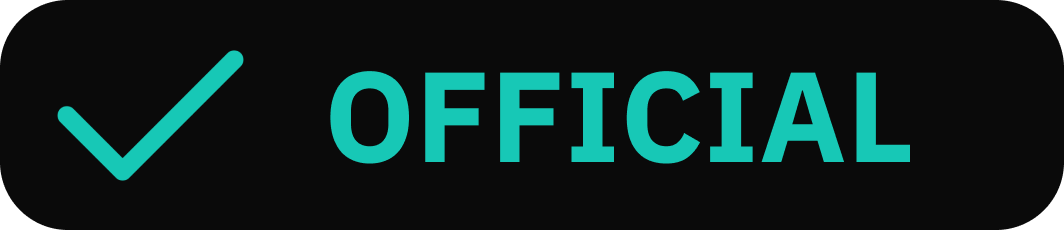
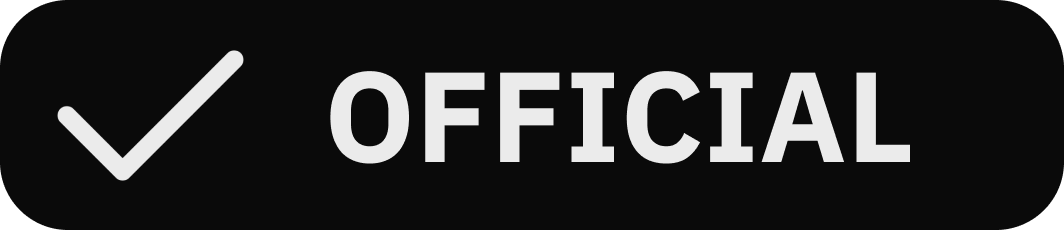
update 20.01.2025

Changed region(s): [[0.3102, 0.3043, 0.8684, 0.7304], [0.031, 0.213, 0.2481, 0.7913]]

diff --git a/index.html b/index.html
@@ -3,10 +3,10 @@
 <head>
     <meta charset="UTF-8">
     <meta name="viewport" content="width=device-width, initial-scale=1.0">
-    <title>Greeny | Card-Page</title>
+    <title>GreenySoka</title>
     <link rel="stylesheet" href="style.css">
     <link rel="preconnect" href="https://fonts.googleapis.com">
-    <link rel="icon" type="x-icon" href="images/gl-logo-round.png">
+    <link rel="icon" type="x-icon" href="images/greenysokalogo.png">
 <link rel="preconnect" href="https://fonts.gstatic.com" crossorigin>
 <link href="https://fonts.googleapis.com/css2?family=Nobile:ital,wght@0,100;0,500;0,700;1,400;1,500;1,700&display=swap" rel="stylesheet">
 </head>
@@ -24,7 +24,7 @@
                 </div>
                 <div id="hd-2">
                     <div id="hd-nametag">
-                        <h1 id="greeny">Greeny</h1><img src="images/fulcrum sign.png" alt="fulcrum" id="fulcrum"> <span id="usertag">@greenysoka</span>
+                        <h1 id="greeny">Greeny</h1><img src="images/greenysoka-white.png" alt="whitesoka" id="whitesoka"> <span id="usertag">@greenysoka</span>
                     </div>
                     <div id="hd-infos">
                         <span class="p-info">Developer / Designer / Gamer</span><br>
@@ -39,8 +39,7 @@
                 <a href="https://github.com/greenysoka" target="_blank"><img src="images/iconmonstr-github-1 1.png" alt="github" class="soc-icon"></a>
                 <a href="https://www.youtube.com/channel/UCnhSu2RBXV_MN-dAOtlmgzw" target="_blank"><img src="images/iconmonstr-youtube-6 1.png" alt="youtube" class="soc-icon"></a>
                 <a href="https://steamcommunity.com/id/greenysoka/" target="_blank"><img src="images/steam.png" alt="steam" class="soc-icon"></a>
-                <a href= "mailto: th3greencraft@gmail.com" target="_blank"><img src="images/iconmonstr-email-1 1.png" alt="email" class="soc-icon"></a>
-
+                <a href= "mailto: greenysoka@gmail.com" target="_blank"><img src="images/iconmonstr-email-1 1.png" alt="email" class="soc-icon"></a>
             </div>
 
             <div id="content">
@@ -52,70 +51,86 @@
                 </div>
             <div id="div-projects">
     
-                <span>Here are all my planned, previous and current projects listed. Take your time, have a look!</span>
+                <span>Welcome to my little card page! Here you can find everything about me and my projects. Have fun! :)</span><br>
+                <span>And shhhh... a new website is coming soon! ^^</span>
                 <br><br>
                 <h2>Running Projects:</h2><br>
 
                 <div class="mp-contentitem">
-                    <h3><img src="projects/gl-logo-round.png" alt="gyxcreative" class="projectimg">GYX Creative <img src="images/officalcheck.png" alt="official" class="official"></h3>
-                    <span>GYX Creative is the new offical home for my bots, clients and partners! So for News, Support, Orders, Changelog and more make sure you <a href="https://discord.com/invite/58xWNKEZs8" target="_blank">join here</a>!</span>
-                    <span>I look forward to welcoming you to GYX Creative soon!</span><br><br>
+                    <h3><img src="projects/sokabots.png" alt="sokabots" class="projectimg">SokaBots <img src="images/officalcheck.png" alt="official" class="official"></h3>
+                    <span>You're looking for your own customized Discord Bot? We can offer that to you! And... IT'S FREE!<br><br>Yes, you heard right. A custom discord bot with ticketsystem, commuity features and custom functions is completely free.</span><br>
+                    <span><br>Join our server and open a ticket to start your experience!</span><br><br>
+                    <a href="https://discord.gg/6y7mB96YUA" target="_blank"><button class="joinbutton">Join SokaBots here</button></a>
                 </div>
 
 
                 <div class="mp-contentitem">
-                    <h3><img src="projects/crimebotv4.png" alt="crimebot" class="projectimg">CRIMEBOT <img src="images/partnercheck.png" alt="partner" class="partner"></h3>
-                    <span>A self-made discord bot for the german <a href="https://discord.gg/y3KKCGAqhm" target="_blank">Crime Master Community Discord Server</a>!</span>
-                    <span>It manages the full discord server and supports the team for every task! It has a fully customized ticket system and a lot of commands!</span><br><br>
+                    <h3><img src="projects/crimebotv4.png" alt="crimebot" class="projectimg">Crimebot<img src="images/partnercheck.png" alt="partner" class="partner"></h3>
+                    <span>A self-made discord bot for the german Crime Master Community Discord Server!</span>
+                    <span>It manages the full discord server and supports the team for every task!<br>It has a fully customized ticket system and many many commands!</span><br><br>
+                    <a href="https://dsc.gg/crimemaster" target="_blank"><button class="joinbutton">Join here!</button></a>
                 </div>
 
                 <div class="mp-contentitem">
                     <h3><img src="projects/starwarsgalaxy.png" alt="swgbot" class="projectimg">Star Wars Galaxy</h3>
-                    <span>The SWG Bot is a little helper for the amazing <a href="https://discord.gg/babyyoda" target="_blank">Star Wars Galaxy</a> Community! Custom ticket system and some community commands are integrated!</span>
+                    <span>The SWG Bot is a little helper for the amazing Star Wars Galaxy Community! Custom ticket system and some community commands are integrated!</span>
                     <br><br>
+                    <a href="https://discord.gg/babyyoda" target="_blank"><button class="joinbutton">Join here!</button></a>
                 </div>
 
                 <div class="mp-contentitem">
-                    <h3><img src="projects/BF-PFP 2.png" alt="bfbot" class="projectimg">BF Management</h3>
-                    <span>A custom discord bot for the professional fire department Rheinstadt server of the FiveM Roleplay Server <a href="https://discord.gg/gamingliferp" target="_blank">GamingLife</a>! It manages tickets, vacations, trainings and more. </span>
+                    <h3><img src="projects/BF-PFP 2.png" alt="bfbot" class="projectimg">BFR Management</h3>
+                    <span>A custom discord bot (not public) for the professional fire department Rheinstadt server of the FiveM Roleplay Server GamingLife!<br>It manages tickets, vacations, trainings and more.</span>
                     <br><br>
+                    <a href="https://discord.gg/YqSVjd8yqc" target="_blank"><button class="joinbutton">Join here!</button></a>
                 </div>
 
                 <div class="mp-contentitem">
                     <h3><img src="projects/hm2.png" alt="hypebot" class="projectimg">HypeBot<img src="images/partnercheck.png" alt="partner" class="partner"></h3>
-                    <span>The HypeBot is also a self-made discord bot for the <a href="https://discord.gg/TcNNBQG2Dq" target="_blank">Hype Modding Server</a>!</span>
+                    <span>The HypeBot is also a self-made discord bot for the Hype Modding Server!</span>
                     <span>It manages it's own ticket-system, verify-system and a bunch of commands!</span>
                     <br><br>
+                    <a href="https://discord.gg/TcNNBQG2Dq" target="_blank"><button class="joinbutton">Join here!</button></a>
                 </div>
 
                 <div class="mp-contentitem">
-                    <h3><img src="projects/zavelife.png" alt="zavelife" class="projectimg">ZaveLife - LSPD</h3>
+                    <h3><img src="projects/zavelife.png" alt="zavelife" class="projectimg">ZaveLife - LSPD (not public)</h3>
                     <span>Our customized discord bot for the LSPD Server of Zavelife manages the newest version of our ticketsystem and a vacationsystem for all officers!</span>
                     <br><br>
                 </div>
 
                 <div class="mp-contentitem">
                     <h3><img src="projects/kronennetzwerk.png" alt="kronennetzwerk" class="projectimg">KronenNetzwerk<img src="images/partnercheck.png" alt="partner" class="partner"></h3>
-                    <span>The customized bot for the <a href="https://discord.gg/sqj4MtP8BG" target="_blank">KronenNetzwerk</a> FiveM server manages tickets, self-roles, a vacation system, embed generators and more!</span>
+                    <span>The customized bot for the KronenNetzwerk FiveM server manages tickets, self-roles, a vacation system, embed generators and more!</span>
                     <br><br>
+                    <a href="https://discord.gg/sqj4MtP8BG" target="_blank"><button class="joinbutton">Join here!</button></a>
+                </div>
+
+                <div class="mp-contentitem">
+                    <h3><img src="projects/sternenfelde.png" alt="sternenfelde" class="projectimg">Sternenfelde<img src="images/partnercheck.png" alt="partner" class="partner"></h3>
+                    <span>Sternenfelde is Germany's 17th federal state and is located in the vastness of the North Sea.<br>Our city-state captures the charm of a modern German city with an exciting history in every corner. Sternenfelde is a place where everyone can unfold as they really are.<br><br>It doesn't matter where you come from, what you believe in or who you love. Sternenfelde is not just a place - it is a home!</span>
+                    <br><br>
+                    <a href="https://discord.gg/sternenfelde" target="_blank"><button class="joinbutton">Join here!</button></a>
                 </div>
 
 
                 <h2>Old projects:</h2><br>
                 <div class="mp-contentitem">
-                    <h3><img src="projects/gorderlogo.jpg" alt="gorder" class="projectimg">G-Order Website</h3>
-                    <span><a href="https://g-order.2ix.de" target="_blank">G-Order</a> is a mix of a website and a discord bot where you can order your own customized bot!</span>
+                    <h3><img src="projects/gorderlogo.jpg" alt="gorder" class="projectimg">G-Order</h3>
+                    <span>G-Order is a mix of a website and a discord bot where you can order your own customized bot!</span>
                     <span>Sadly I paused the project at the time but if you're interested in ordering a free discord bot, contact me on discord!</span>
                     <br><br>
+                    <a href="https://g-order.2ix.de" target="_blank"><button class="joinbutton">Go to website</button></a>
                 </div>
                 <div class="mp-contentitem">
                     <h3><img src="projects/yourshift.png" alt="yourshift" class="projectimg">YourShift - LSPDFR Plugin</h3>
-                    <span><a href="https://www.lcpdfr.com/downloads/gta5mods/scripts/45398-yourshift/" target="_blank">YourShift</a> is a GTA 5 LSPDFR Plugin to manage your shifts when you're on patrol!</span>
+                    <span>YourShift is a GTA 5 LSPDFR Plugin to manage your shifts when you're on patrol!</span>
                     <br><br>
+                    <a href="https://www.lcpdfr.com/downloads/gta5mods/scripts/45398-yourshift/" target="_blank"><button class="joinbutton">Go to lcpdfr.com plugin</button></a>
                 </div>
                 <div class="mp-contentitem">
                     <h3><img src="projects/furinabot.png" alt="furina" class="projectimg">Furina</h3>
-                    <span>Furina is a customized bot to support different functions and commands for the <a href="https://discord.gg/6NCb8j8T" target="_blank">𝐍𝐢𝐠𝐡𝐭𝐬𝐭𝐚𝐫 𝐂𝐚𝐟𝐞́</a>!</span>
+                    <span>Furina is a customized bot to support different functions and commands for the Nightstar Cafe!</span>
                     <span> It manages it's own ticketsystem, role-system and levelling system!</span>
                     <br><br>
                 </div>
@@ -126,7 +141,7 @@
             <div id="div-aboutme">
                 <h3>★  Languages I speak / use</h3>
                 <span>➥ 🗣 German / English</span><br>
-                <span>➥ 💻 Python, JS, HTML/CSS, C#</span><br><br>
+                <span>➥ 💻 Python, JS, HTML/CSS, PHP, C#</span><br><br>
 
                 <h3>★  My 🤍 shows & movies</h3>              
                 <span>➥ ⭐ Star Wars Rouge One & Revenge of the Sith</span><br>
@@ -168,10 +183,10 @@
             <div id="div-contact">
                 
 
-                <span>You want to get in touch with me? Or order your own customized discord bot, design or animation?</span><br>
-                <span>Great! Join the GYX discord server to start an order!</span><br><br>
+                <span>You want to get in touch with me? Or order your own customized discord bot for free?</span><br>
+                <span>Great! Join Sokabots discord server to start an order!</span><br><br>
                 <br>
-                <a href="https://discord.com/invite/58xWNKEZs8" target="_blank"><button class="mainbutton">Discord Server</button></a><br>
+                <a href="https://discord.gg/6y7mB96YUA" target="_blank"><button class="joinbutton">Discord Server</button></a><br>
                 <br><br><br><span>May the force be with you! ✨</span>
                 <br><br>
             </div>
@@ -188,9 +203,10 @@
             </div>
                 
 
-                
+            <span id="version">Last updated: 20.01.2025</span>
             </div>
         </div>
+        
     </div>
     <script>
         document.getElementById('usertag').addEventListener('click', function() {
@@ -217,7 +233,7 @@
             const content4 = document.getElementById("div-officialinfo");
             content4.style.display = "none";
             const navbarspan = document.getElementById("myprojectsspan");
-            navbarspan.style.color = "#056f99";
+            navbarspan.style.color = "#999899";
             const navbarspan1 = document.getElementById("aboutmespan");
             navbarspan1.style.color = "white";
             const navbarspan2 = document.getElementById("contactspan");
@@ -237,7 +253,7 @@
             const navbarspan = document.getElementById("myprojectsspan");
             navbarspan.style.color = "white";
             const navbarspan1 = document.getElementById("aboutmespan");
-            navbarspan1.style.color = "#056f99";
+            navbarspan1.style.color = "#999899";
             const navbarspan2 = document.getElementById("contactspan");
             navbarspan2.style.color = "white";
         }
@@ -257,7 +273,7 @@
             const navbarspan1 = document.getElementById("aboutmespan");
             navbarspan1.style.color = "white";
             const navbarspan2 = document.getElementById("contactspan");
-            navbarspan2.style.color = "#056f99";
+            navbarspan2.style.color = "#999899";
         }
     </script>
 </body>

diff --git a/style.css b/style.css
@@ -16,7 +16,7 @@ br{
 }
 .official:hover{
     cursor: pointer;
-    filter: drop-shadow(0 0 8px #28918772);
+    filter: drop-shadow(0 0 8px #999899);
 }
 
 .partner{
@@ -27,7 +27,7 @@ br{
 }
 .partner:hover{
     cursor: pointer;
-    filter: drop-shadow(0 0 8px #ffffff72);
+    filter: drop-shadow(0 0 8px #999899);
 }
 
 
@@ -54,7 +54,7 @@ br{
 }
 
 #myprojectsspan{
-    color: #056f99;
+    color: #999899;
 }
 
 #navbar span{
@@ -72,11 +72,11 @@ br{
 #content a{
     text-decoration: none;
     transition: all 0.3s;
-    color: #056f99;
+    color: #999899;
 
 }
 #content a:hover{
-    color : rgba(78, 216, 250, 0.719);
+    color : #999899;
 }
 
 
@@ -86,7 +86,7 @@ br{
 #navbar span{
     font-size: 20px;
 }
-#fulcrum{
+#whitesoka{
     height: 40px;
     margin: 0 0px 0 15px;
     transition: all 0.3s;
@@ -102,7 +102,7 @@ body {
     margin: 0;
     display: flex; 
     justify-content: center;
-    font-family: Nobile;
+    font-family: 'Lucida Sans', 'Lucida Sans Regular', 'Lucida Grande', 'Lucida Sans Unicode', Geneva, Verdana, sans-serif;
     transition: all 0.3s;
     
 }
@@ -138,7 +138,7 @@ span{
 }
 .mainbutton:hover{
     cursor: pointer;
-    background-color: #056f99;
+    background-color:#999899;
     color: rgb(223, 223, 223);
     scale: 1.1;
 }
@@ -162,45 +162,8 @@ span{
     display: grid;
     justify-content: center;
     transition: all 0.3s;
-    filter: drop-shadow(0px 0px 50px #487cb192);
+    filter: drop-shadow(0px 0px 50px #EBEBEB);
 
-}
-
-
-/* @keyframes rotateShadow {
-    0% {
-        box-shadow: 15px 15px 140px #0a6e644a, -15px -15px 140px #1a841d5a;
-    }
-    25% {
-        box-shadow: 15px -15px 140px #0a6e644a, -15px 15px 140px #1a841d5a;
-    }
-    50% {
-        box-shadow: -15px -15px 140px #0a6e644a, 15px 15px 140px #1a841d5a;
-    }
-    75% {
-        box-shadow: -15px 15px 140px #0a6e644a, 15px -15px 140px #1a841d5a;
-    }
-    100% {
-        box-shadow: 15px 15px 140px #0a6e644a, -15px -15px 140px #1a841d5a;
-    }
-} */
-
-@keyframes rotateShadowFulcrum {
-    0% {
-        box-shadow: 15px 15px 140px #1683c1, -15px -15px 140px #e66700;
-    }
-    25% {
-        box-shadow: 15px -15px 140px #1683c1, -15px 15px 140px #e66700;
-    }
-    50% {
-        box-shadow: -15px -15px 140px #1683c1, 15px 15px 140px #e66700;
-    }
-    75% {
-        box-shadow: -15px 15px 140px #1683c1, 15px -15px 140px #e66700;
-    }
-    100% {
-        box-shadow: 15px 15px 140px #1683c1, -15px -15px 140px #e66700;
-    }
 }
 
 
@@ -216,7 +179,7 @@ header{
     user-select: none;
 }
 #logo:hover{
-    filter: drop-shadow(0px 0px 20px #056f99);
+    filter: drop-shadow(0px 0px 20px #999899);
     cursor: pointer;
 }
 
@@ -255,7 +218,7 @@ header{
 
 }
 #usertag:hover{
-    color: #056f99;
+    color: #999899;
     cursor: pointer;
 }
 #usertag-bottom{
@@ -264,11 +227,11 @@ header{
     padding: 4px 0 0 20px;
     margin: 0 0 20px 0;
     transition: all 0.3s;
-    color: #487cb192;
+    color: #EBEBEB;
 
 }
 #usertag-bottom:hover{
-    color: #487cb192;
+    color: #EBEBEB;
     cursor: pointer;
 }
 
@@ -333,7 +296,7 @@ header{
         background-color: rgb(21, 21, 21);
         color: white;
         border-radius: 30px;
-        filter: drop-shadow(0px 0px 0px #2E5B67);
+        filter: drop-shadow(0px 0px 0px #999899);
         height: auto;
         margin-top: 10px;
         margin-bottom: 20px;
@@ -363,7 +326,7 @@ header{
     }
     .official:hover{
         cursor: pointer;
-        filter: drop-shadow(0 0 8px #2E5B67);
+        filter: drop-shadow(0 0 8px #999899);
     }
     
     .partner{
@@ -484,4 +447,26 @@ header{
 
 .mp-contentitem:hover {
     background-color: rgb(29, 29, 29);
+}
+
+.joinbutton {
+    width: 300px;
+    padding: 13px;
+    background-color: #272727;
+    color: white;
+    border-radius: 10px;
+    border: none;
+    transition: all 0.3s;
+    margin: 10px 0 10px 0;
+}
+
+.joinbutton:hover{
+    background-color: #353535;
+    cursor: pointer;
+}
+
+#version {
+    font-size: 12px;
+    opacity: 0.6;
+    margin: 20px 0 0 0;
 }
